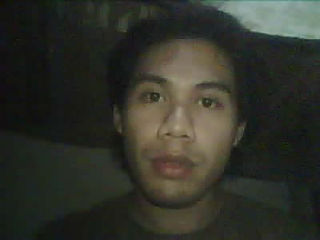
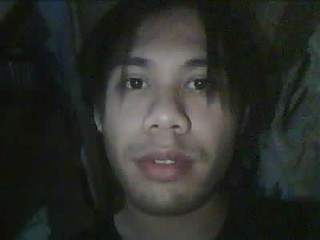
[ejie]
changes in code

diff --git a/admin/livecamera.php b/admin/livecamera.php
@@ -15,6 +15,7 @@
   <meta name="keywords" content="Mantis, Dashboard UI Kit, Bootstrap 5, Admin Template, Admin Dashboard, CRM, CMS, Bootstrap Admin Template">
   <meta name="author" content="CodedThemes">
 
+
   <!-- [Favicon] icon -->
   <link rel="shortcut icon" type="image/png" href="../template/auth/assets/images/logos/seodashlogo.png" />
 <link rel="stylesheet" href="https://fonts.googleapis.com/css2?family=Public+Sans:wght@300;400;500;600;700&display=swap" id="main-font-link">
@@ -415,8 +416,26 @@
             </div>
             <div class="card-body pc-component">
               <!-- Video element for live camera feed -->
-              <img id="liveCamera" crossorigin="anonymous" src="http://192.168.64.49/stream" class="img-fluid d-block w-100" style="border: 1px solid #ddd; transform: scaleX(-1);" />
-<p class="text-muted mt-2">Ensure your browser has access to the camera.</p>
+              <img id="liveCamera"
+                  crossorigin="anonymous"
+                  src="http://192.168.3.59/frame.jpg"
+                  class="img-fluid d-block w-100"
+                  style="border: 1px solid #ddd; transform: scaleX(-1);" />
+
+              <script>
+                const img = document.getElementById('liveCamera');
+
+                setInterval(() => {
+                  const buffer = new Image();
+                  buffer.crossOrigin = "anonymous";
+                  buffer.onload = () => {
+                    img.src = buffer.src;
+                  };
+                  buffer.src = 'http://192.168.3.59/frame.jpg?t=' + new Date().getTime();
+                }, 100); // Refresh every 200ms
+              </script>
+
+              <p class="text-muted mt-2">Ensure your browser has access to the camera.</p>
 <canvas id="capturedFrame" class="d-none"></canvas>
 <div id="countdown">5</div>
 <p id="predictionResult" class="mt-3 text-center">------------------------------------------------------------------</p>
@@ -512,6 +531,11 @@ async function captureFrame() {
                           <strong>Room:</strong> ${scheduleData.room}<br>
                           <strong>Time:</strong> ${scheduleData.time}
                       `;
+
+                       fetch('http://192.168.3.65/open')  // Replace with ESP32 IP
+                      .then(response => response.text())
+                      .then(data => console.log('ESP32 response:', data))
+                      .catch(error => console.error('ESP32 request failed:', error));
                   } else {
                       predictionResult.innerHTML = `
                           <strong>Status:</strong> Access Denied ❌<br>
